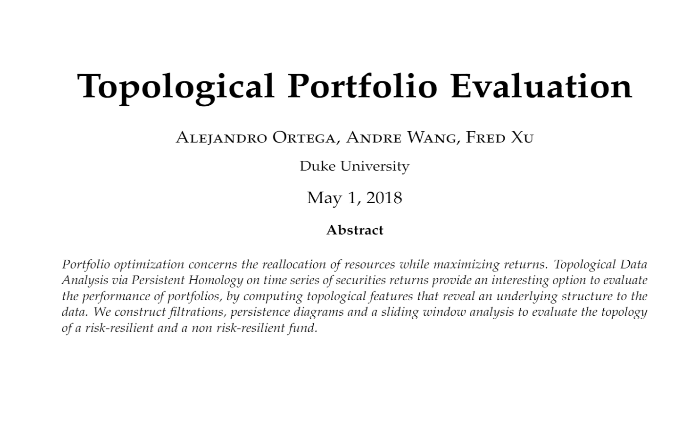
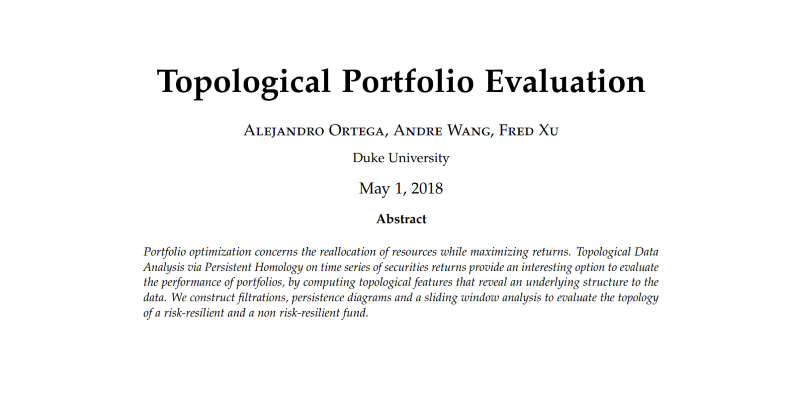
updated images and spelling mistakes

Changed region(s): [[0.09, 0.57, 0.93, 0.81], [0.09, 0.15, 0.9, 0.27], [0.24, 0.3, 0.78, 0.57]]

diff --git a/index.html b/index.html
@@ -52,11 +52,11 @@
         </div>
         <div class="col-4">
             <img class="center" style="width: 100%;border-radius: 1rem" src="./img/tda.png" alt="">
-            <h3 class="center">Topological Portfolio Analysis</h3>
+            <h3 class="center">Topological Portfolio Evaluation</h3>
         </div>
     </div>
     <div class="col-12" style="padding-left: 5%">
-        <h2>DATA VISUALZIATION</h2>
+        <h2>DATA VISUALIZATION</h2>
         <div class="col-4">
             <h3 class="center">Kartesian</h3>
         </div>
